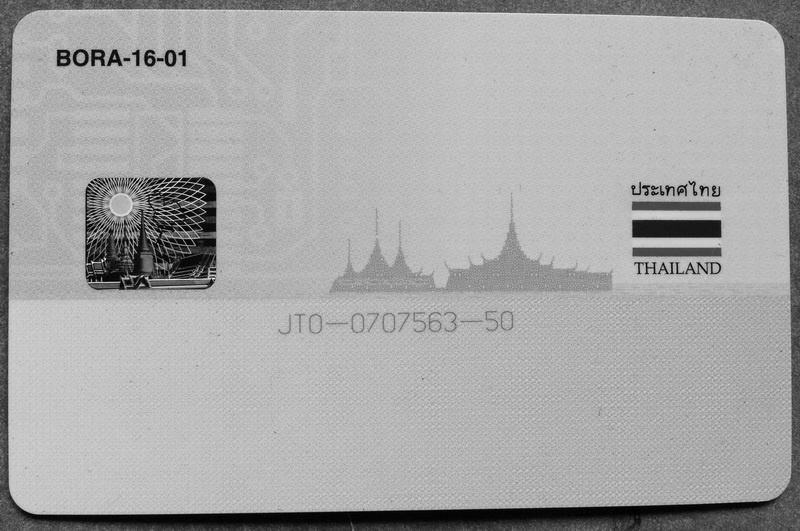
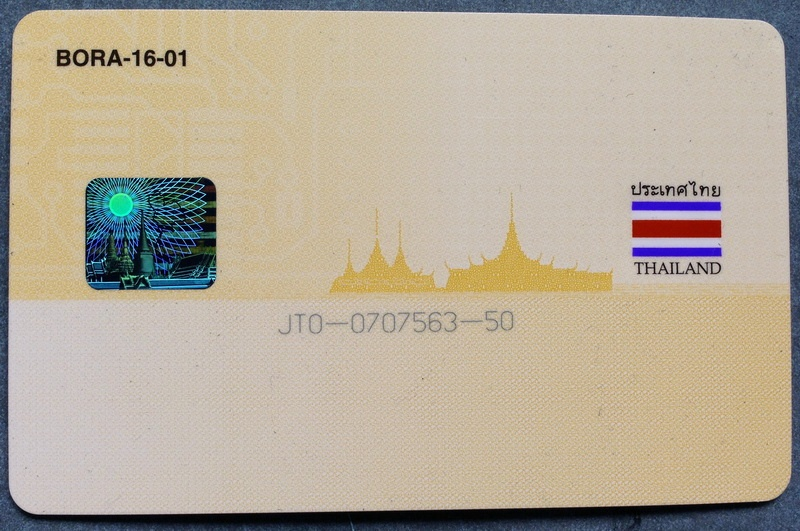
stable added function extract front and back of cvid card

diff --git a/src/ThaiPersonalCardExtract/PersonalCard/PersonalCard.py b/src/ThaiPersonalCardExtract/PersonalCard/PersonalCard.py
@@ -1,4 +1,4 @@
-from ..utils import Language, Provider, Card
+from ..utils import Language, Provider, Card, remove_dot_noise
 from collections import namedtuple
 import re
 import os
@@ -94,7 +94,7 @@ class PersonalCard:
         if str(provider) == str(Provider.EASYOCR) or str(provider) == str(Provider.DEFAULT):
             self.reader = easyocr.Reader(['en', 'th'], gpu=True)
         self.__loadSIFT()
-        self.h, self.w = self.source_image_front_tempalte.shape
+        self.h, self.w, *other = self.source_image_front_tempalte.shape
 
     def __loadSIFT(self):
         self.source_image_front_tempalte = self.__readImage(
@@ -111,7 +111,8 @@ class PersonalCard:
 
     def __readImage(self, image=None):
         try:
-            img = cv2.imread(image, cv2.IMREAD_GRAYSCALE)
+            img = cv2.imread(image, cv2.IMREAD_COLOR)
+            img = cv2.cvtColor(img, cv2.COLOR_BGR2RGB)
             if img.shape[1] > 1280:
                 scale_percent = 60  # percent of original size
                 width = int(img.shape[1] * scale_percent / 100)
@@ -152,7 +153,10 @@ class PersonalCard:
                     lambda item: str(self.lang) in item["lang"],
                     self.roi_extract["roi_extract"])):
             imgCrop = self.image_scan[box["point"][1]:box["point"][3], box["point"][0]:box["point"][2]]
-            # imgCrop = cv2.adaptiveThreshold(imgCrop, 255, cv2.ADAPTIVE_THRESH_GAUSSIAN_C, cv2.THRESH_BINARY, 11, 8)
+            imgCrop = cv2.adaptiveThreshold(imgCrop[:,:,0], 255, cv2.ADAPTIVE_THRESH_GAUSSIAN_C, cv2.THRESH_BINARY, 11, 8) + cv2.adaptiveThreshold(imgCrop[:,:,1], 255, cv2.ADAPTIVE_THRESH_GAUSSIAN_C, cv2.THRESH_BINARY, 11, 8) + cv2.adaptiveThreshold(imgCrop[:,:,2], 255, cv2.ADAPTIVE_THRESH_GAUSSIAN_C, cv2.THRESH_BINARY, 11, 8)
+
+            if str(side) == str(Card.BACK_TEMPLATE):
+                imgCrop = remove_dot_noise(imgCrop)
 
             if str(self.provider) == Provider.DEFAULT.value:
                 if str(box["provider"]) == str(str(Provider.EASYOCR)):

diff --git a/src/ThaiPersonalCardExtract/utils.py b/src/ThaiPersonalCardExtract/utils.py
@@ -90,3 +90,17 @@ def remove_horizontal_line(image):
     repair_kernel = cv2.getStructuringElement(cv2.MORPH_RECT, (1, 6))
     result = 255 - cv2.morphologyEx(255 - image, cv2.MORPH_CLOSE, repair_kernel, iterations=1)
     return result
+
+def remove_dot_noise(image):
+    _, blackAndWhite = cv2.threshold(image, 127, 255, cv2.THRESH_BINARY_INV)
+    nlabels, labels, stats, centroids = cv2.connectedComponentsWithStats(blackAndWhite, None, None, None, 4, cv2.CV_32S)
+    sizes = stats[1:, -1]  # get CC_STAT_AREA component
+    img2 = np.zeros((labels.shape), np.uint8)
+
+    for i in range(0, nlabels - 1):
+        if sizes[i] >= 8:  # filter small dotted regions
+            img2[labels == i + 1] = 255
+    res = cv2.bitwise_not(img2)
+    kernel = np.ones((3, 3), np.uint8)
+    res = cv2.erode(res,kernel, iterations=1)
+    return res
